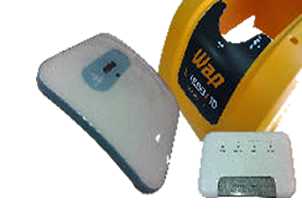
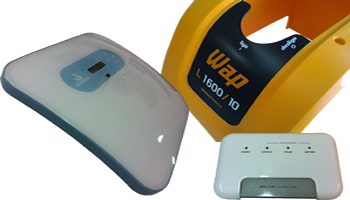
ajustes na img home

diff --git a/zape/css/estilo.css b/zape/css/estilo.css
@@ -1,8 +1,8 @@
-html {
+html{
 	margin:0;
 	padding:0;
 	}
-body {
+body{
 	margin:0;
 	background:url(img/faixa_fundo_rept.png);
 	background-repeat:repeat-x;
@@ -12,11 +12,12 @@ body {
 	width:100%;
 	background:url(img/faixa_topo.png);
 	}
-.logo {
+.logo{
 	position:absolute;
-	top:-15px;
-	left:132px;
+	top:7px;
+	left:172px;
 	cursor:pointer;
+	margin:0;
 	}
 #menu{
 	height:33px;
@@ -35,12 +36,17 @@ body {
 	height:225px;
 	margin:0;
 	font-size:14pt;
-	margin-left:40px;
+	margin-left:30px;
 	font-family:calibri;
 	}
+#div_text p{
+	text-align:justify;
+	margin:0;
+	padding:40px 0;
+	}
 #div_img{
-	width:302px;
-	height:345px;
+	width:345px;
+	height:230px;
 	background:url(img/img_home.png);
 	float:right;
 	background-repeat:no-repeat;
@@ -75,15 +81,10 @@ ul li:hover{
 ul li:active{
 	background:#90D2DA;
 	}
-#div_text p{
-	text-align:justify;
-	margin:0;
-	padding:30px 0;
-	}
 #saiba_mais{
 	width:55px;
 	height:25px;
-	margin-left:40px;
+	margin-left:30px;
 	}
 #rodape{
 	width:100%;

diff --git a/zape/css/estilo_contatos.css b/zape/css/estilo_contatos.css
@@ -4,7 +4,7 @@ html {
 	}
 body {
 	margin:0;
-	background:url(img/fundo_rept.png);
+	background:url(img/faixa_fundo_rept.png);
 	background-repeat:repeat-x;
 	}
 #div_topo{

diff --git a/zape/css/estilo_parceiros.css b/zape/css/estilo_parceiros.css
@@ -4,7 +4,7 @@ html {
 	}
 body {
 	margin:0;
-	background:url(img/fundo_rept.png);
+	background:url(img/faixa_fundo_rept.png);
 	background-repeat:repeat-x;
 	}
 #div_topo{

diff --git a/zape/css/estilo_portifolio.css b/zape/css/estilo_portifolio.css
@@ -4,7 +4,7 @@ html {
 	}
 body {
 	margin:0;
-	background:url(img/fundo_rept.png);
+	background:url(img/faixa_fundo_rept.png);
 	background-repeat:repeat-x;
 	}
 #div_topo{

diff --git a/zape/css/estilo_quemsomos.css b/zape/css/estilo_quemsomos.css
@@ -4,7 +4,7 @@ html {
 	}
 body {
 	margin:0;
-	background:url(img/fundo_rept.png);
+	background:url(img/faixa_fundo_rept.png);
 	background-repeat:repeat-x;
 	}
 #div_topo{
